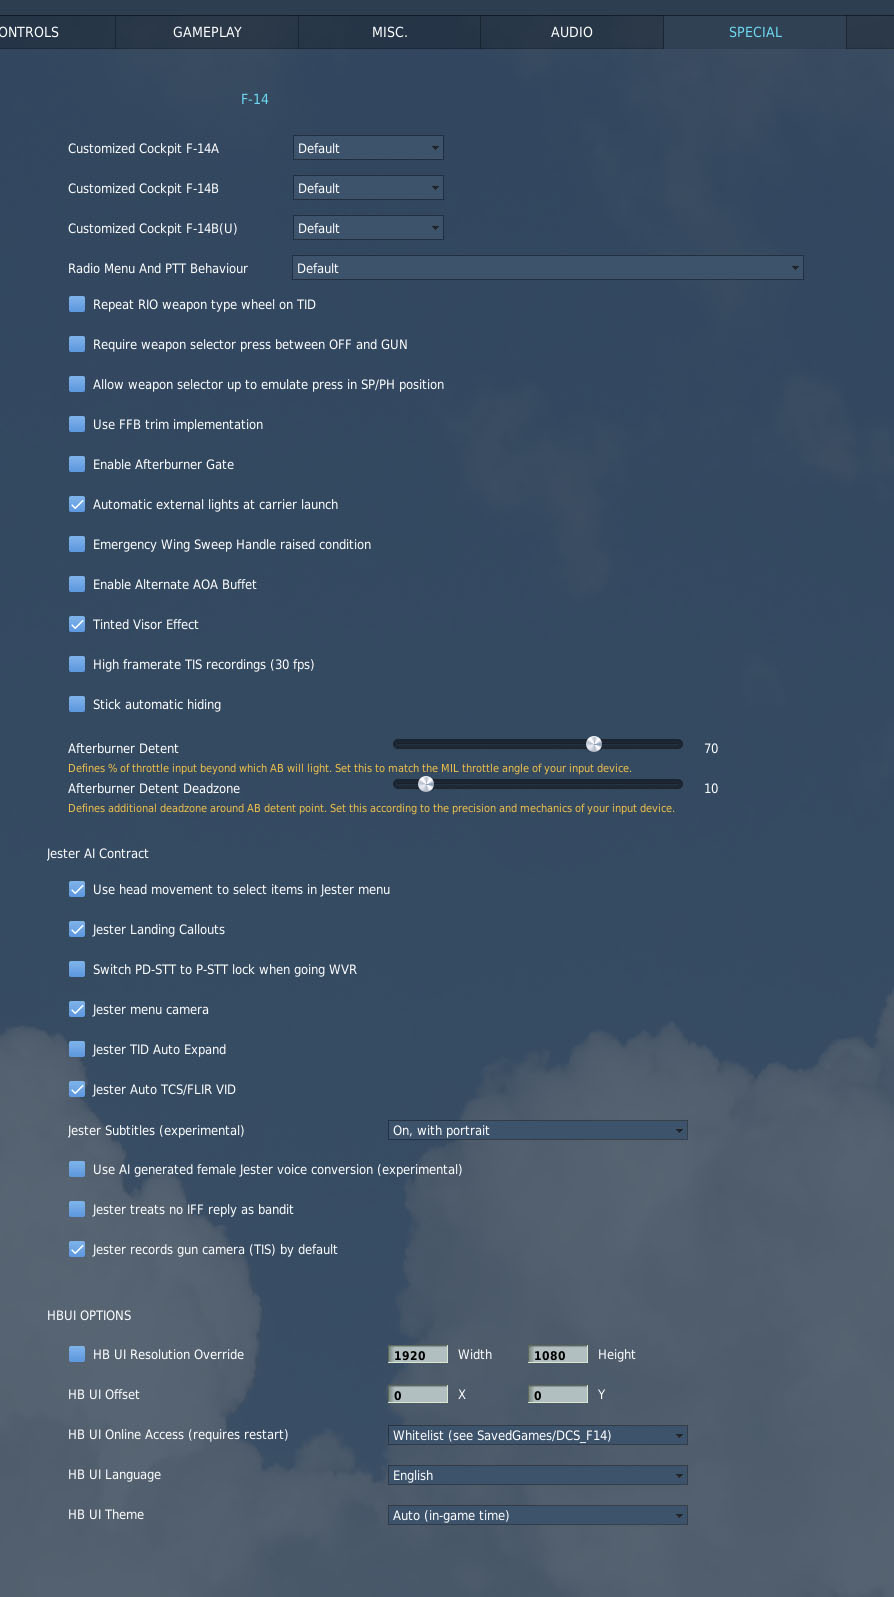
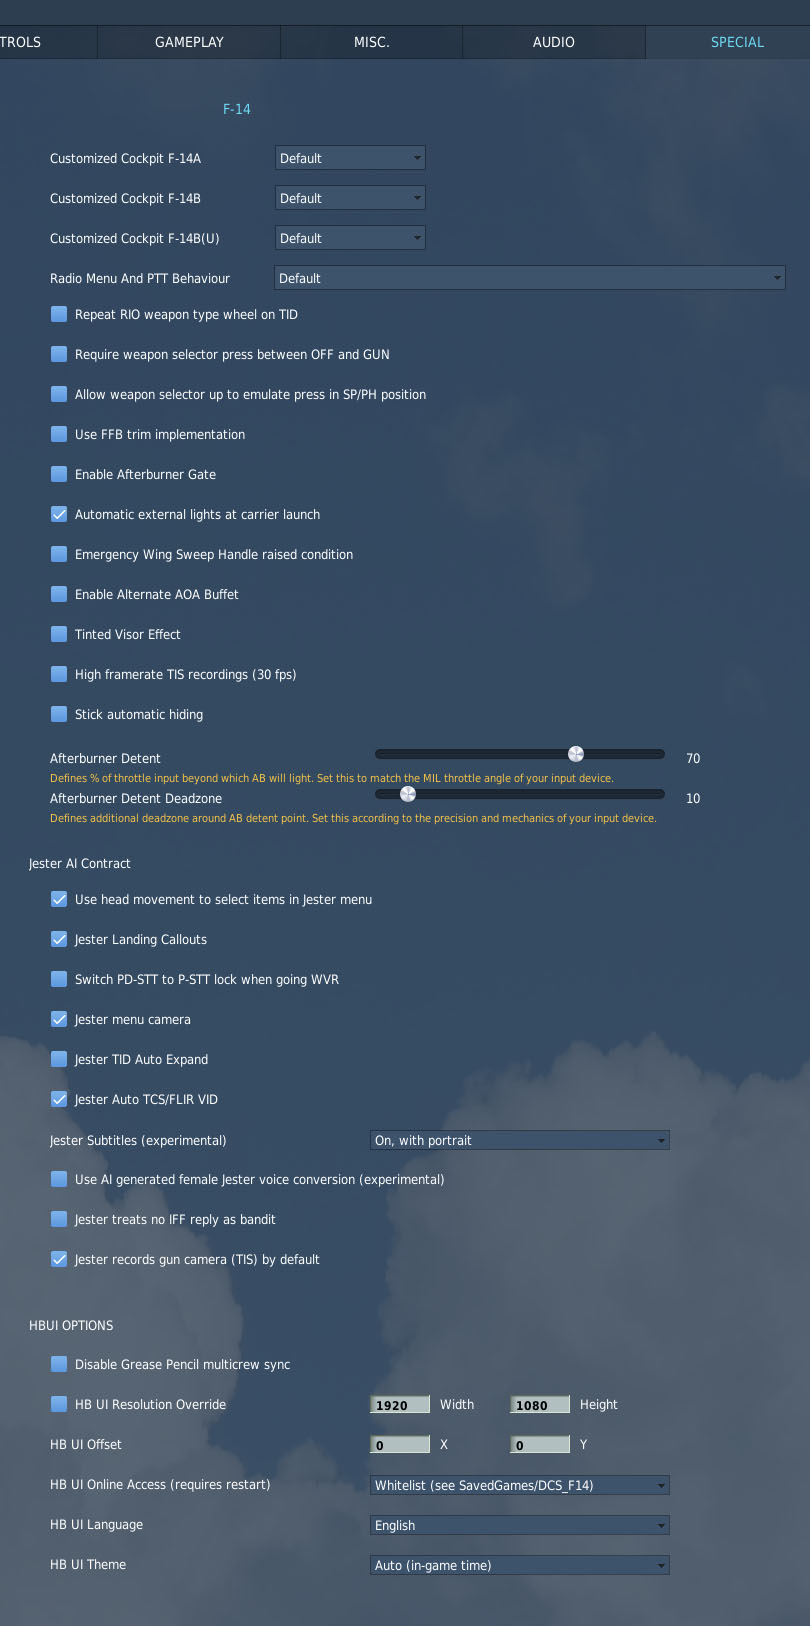
Update TARPS, Add LANTIRN Note, Update Special Options for Aug 2026 patch (#76)
* Update TARPS, Add LANTIRN Note, Update Special Options

* Reduce TARPS example image size

* Further reduce TARPS example image size

* Elaborate on the MARK position of the FILM switch

diff --git a/src/f14ab/systems/tarps.md b/src/f14ab/systems/tarps.md
@@ -90,16 +90,41 @@ environment.
 > in DCS.
 
 In DCS, TARPS functionality is currently limited to the KS-87D camera configured
-in the vertical, looking straight down position. Photography is initiated and
-concluded by using the special dedicated keybind. The TARPS control panel,
-navigation and HUD steering integration, automatic camera sequencing, KA-99
-panoramic camera, and AN/AAD-5 infrared line scanner are not currently
-simulated.
+in the vertical position (looking straight down) or the forward position (45°
+forward-oblique) and the KA-99 panoramic camera. The FRAME switch binding
+switches between the different respective KS-87D positions with the OFF position
+inhibiting images from being taken while the FILM switch is in MARK or RUN.
+
+Photography is initiated and concluded by using the RIO's FILM switch or with
+the Pilot's Store Release button. The MARK position allows for individual
+"marked" images to be taken while the RUN position takes a picture once every
+second from both cameras (unless the FRAME switch is set to OFF) until the
+switch is moved to OFF or until the available film is used up. The KS-87 frame
+camera can take a total of 2700 images and the KA-99 panoramic camera can take a
+total of 750 images.
+
+All TARPS switches are exclusively controlled by the RIO. When flying with
+Jester, the Pilot can change the TARPS settings or initiate TARPS photography by
+using the Utilities menu under the Jester Air to Ground submenu accessed from
+the Jester Main Menu.
+
+> 💡 The TARPS control panel, navigation and HUD steering integration, automatic
+> camera sequencing, and AN/AAD-5 infrared line scanner are not currently
+> simulated.
 
 ![TARPS DCS Controls](../../img/tarps_controls_dcs.jpg)
 
 All TARPS imagery are saved in the `Saved Games/DCS_F14/TARPS` directory. Each
-TARPS image is saved with the associated flight data when the image was taken
-(Mission Date, Lat Long, Altitude, Drift, Heading, Pitch, Roll).
+camera's image is saved in their respective folders with the associated flight
+data when the image was taken (Mission Time and Date, Lat Long, Altitude, Drift,
+Heading, Pitch, Roll). Images taken with the FILM switch on the MARK position
+have MARK at the end of their file names. The images are only visible after
+finishing the flight in which the TARPS was used and cannot be viewed
+mid-flight.
 
-![TARPS Saved Games](../../img/tarps_saved_games.jpg)
+![TARPS Saved Games KS-87](../../img/tarps_saved_games.jpg)
+
+Within each TARPS image, if there are units found within the image, they are
+circled and labeled.
+
+![TARPS KS-87 Example](../../img/tarps_ks_87_example.jpg)

diff --git a/src/f14ab/systems/lantirn/modes.md b/src/f14ab/systems/lantirn/modes.md
@@ -21,6 +21,10 @@ however allow the system to track moving targets.
 > mode. Once Point Track is successfully engaged in WHOT, it is possible to
 > change the polarity to BHOT.
 
+> 💡 Point Track may not be established or maintained if the current scene
+> within the LANTIRN FOV is too cluttered. This means if there are too many
+> objects in the FOV, Point Track may fail.
+
 The last tracking mode has the sensor slewed to a stored location/direction,
 called a Q. The directional Qs do not allow for guidance to a location while the
 location Qs do.

diff --git a/src/dcs/special_options.md b/src/dcs/special_options.md
@@ -177,6 +177,13 @@ you can still switch the TIS on from the cockpit switch or the Jester wheel.
 
 ## HB UI
 
+### Disable Grease Pencil multicrew sync
+
+Enable this if DCS freezes for you in multicrew. The grease pencil keeps working
+normally in your own cockpit, but your drawings may not reach the other crew
+member. This is a temporary workaround while we investigate; it only affects
+your own machine.
+
 ### Resolution Override
 
 User interface elements, such as the manual, virtual browser and others are

diff --git a/src/f14bu/systems/lantirn/lantirn_targeting_system.md b/src/f14bu/systems/lantirn/lantirn_targeting_system.md
@@ -76,6 +76,10 @@ computed rates mode.
 > mode. Once Point Track is successfully engaged in WHOT, it is possible to
 > change the polarity to BHOT.
 
+> 💡 Point Track may not be established or maintained if the current scene
+> within the LANTIRN FOV is too cluttered. This means if there are too many
+> objects in the FOV, Point Track may fail.
+
 ## Q (Cue) Modes
 
 - Q Waypoint: With Q waypoint any of 20 LTS designated waypoints can be toggled
